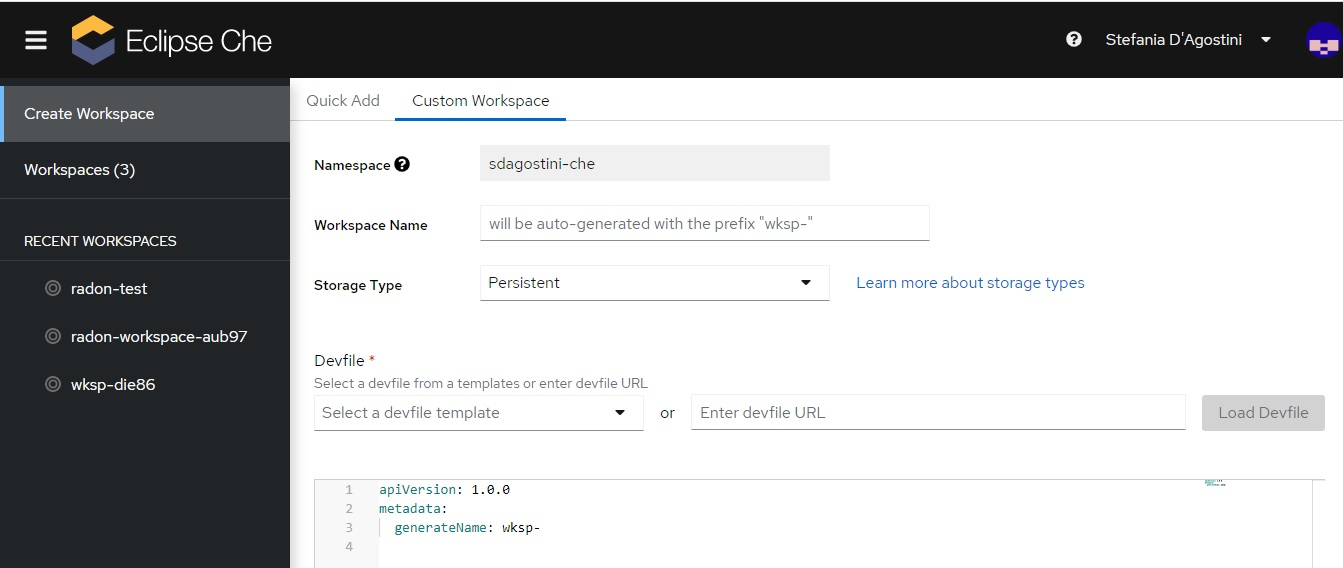
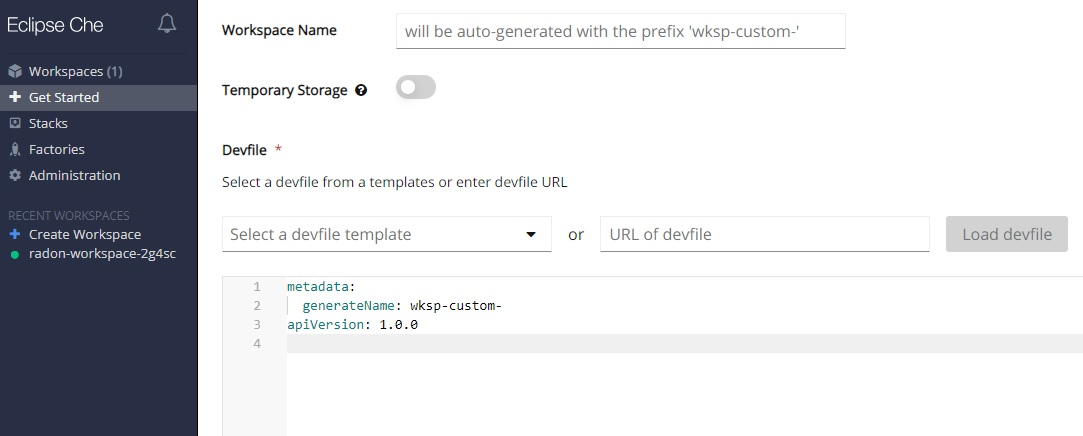
Updated image

diff --git a/docs/getting-started.rst b/docs/getting-started.rst
@@ -5,13 +5,13 @@ Access to the RADON IDE
 
 Use the following `form <https://mailchi.mp/fe5357445dba/radon-ide-access-request/>`_ to request access to the RADON IDE. An account will be created and the credentials will be sent via the email specified in the form, along with the URL to the RADON Stack devfile.
 
-After receiving the credentials, login to the RADON IDE (Figure 1) connecting to the `Che Login page <https://che-eclipse-che.91.109.58.122.nip.io/>`_ to access the main Che dashboard (Figure 2). In the *Workspaces tab* the list of already created workspaces is visible and it is possible to create new ones.
+After receiving the credentials, login to the RADON IDE (Figure 1) connecting to the `Che Login page <http://che-che.217.172.12.178.nip.io>`_ to access the main Che dashboard (Figure 2). In the *Workspaces tab* the list of already created workspaces is visible and it is possible to create new ones.
 
 .. figure:: imgs/IDE_Login.jpg
 
    Figure 1: RADON IDE Login.
 
-.. figure:: imgs/EclipseCheDashboard_New.jpg
+.. figure:: imgs/EclipseCheDashboard_2.jpg
 
    Figure 2: IDE Dashboard.
 
